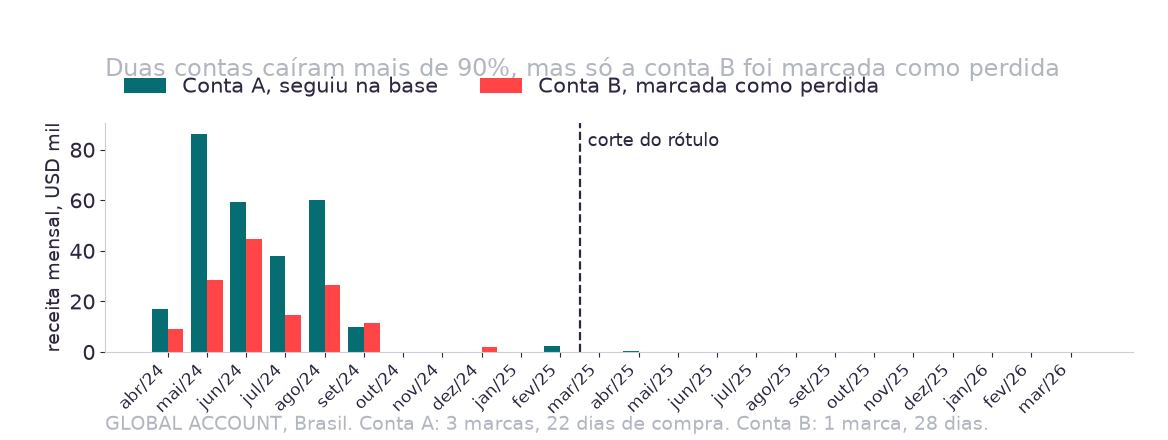
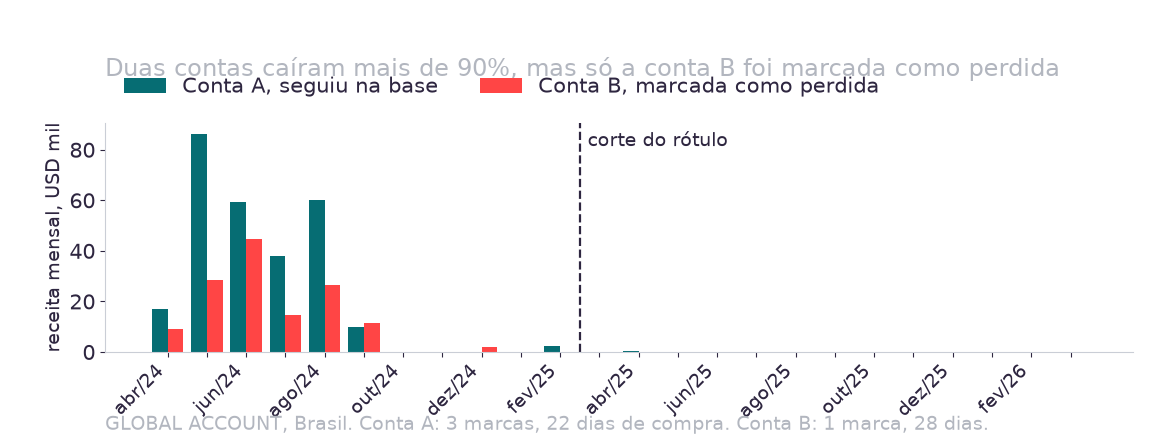
fix(aula04): fonte mínima de 14px nas figuras e legendas lidas do módulo
Claude-Session: https://claude.ai/code/session_01E3SCZ5icgJQf9CXwP2zvmh

Changed region(s): [[0.0925, 0.8273, 0.9247, 0.9455], [0.524, 0.2955, 0.6164, 0.3545]]

diff --git a/tools/gerar_figuras_aula04.py b/tools/gerar_figuras_aula04.py
@@ -134,13 +134,14 @@ def prevalencia_elegiveis() -> Path:
     _barras_com_ic(ax, nomes, t.prevalencia.to_numpy(), t.ic_inferior.to_numpy(),
                    t.ic_superior.to_numpy(), CORAL, xlim=0.8)
     p = an.populacoes()["elegiveis"]
+    n_estrategicas = int(t.loc["STRATEGIC ACCOUNT", "contas"])
     ax.axvline(p["prevalencia"], color=ROXO, linestyle="--", linewidth=1.6)
     ax.text(p["prevalencia"] + 0.01, -0.75, f"carteira elegível {_pct(p['prevalencia'])}",
-            fontsize=13, color=ROXO)
-    ax.set_title("Prevalência de churn por segmento, nas 3.748 contas elegíveis",
+            fontsize=14, color=ROXO)
+    ax.set_title(f"Prevalência de churn por segmento, nas {_fmt(p['contas'], 0)} contas elegíveis",
                  fontsize=17, color=CINZA_ESCURO, loc="left", pad=30)
     ax.text(0.0, -0.26, f"IC de 95% (Wilson). Qui-quadrado {_fmt(qui2)}, {gl} graus de liberdade. "
-            "Estratégicas: 71 contas.",
+            f"Estratégicas: {_fmt(n_estrategicas, 0)} contas.",
             transform=ax.transAxes, fontsize=14, color=CINZA_ESCURO)
     return salvar(fig, "aula04-prevalencia-elegiveis.png")
 
@@ -181,11 +182,16 @@ def marcas_por_dias() -> Path:
 # Real 3: o par da PBL, série mensal lado a lado
 # ---------------------------------------------------------------------------
 
+def _plural(n: int, singular: str, plural: str) -> str:
+    return singular if n == 1 else plural
+
+
 def par_pbl() -> Path:
     p = an.par_da_pbl()
     s = p["series"] / 1000
     meses = list(s.index)
     rotulos = [f"{MESES_CURTOS[m[5:]]}/{m[2:4]}" for m in meses]
+    rotulos_mostrados = [r if i % 2 == 0 else "" for i, r in enumerate(rotulos)]
     fig = _figura(440)
     ax = fig.add_axes([0.09, 0.2, 0.88, 0.52])
     _estilo_eixo(ax)
@@ -194,14 +200,18 @@ def par_pbl() -> Path:
     ax.bar(x + 0.2, s.conta_b, width=0.4, color=CORAL, label="Conta B, marcada como perdida")
     corte = meses.index("2025-02")
     ax.axvline(corte + 0.5, color=ROXO, linestyle="--", linewidth=1.6)
-    ax.text(corte + 0.7, ax.get_ylim()[1] * 0.9, "corte do rótulo", fontsize=13, color=ROXO)
-    ax.set_xticks(x); ax.set_xticklabels(rotulos, fontsize=12, rotation=45, ha="right")
+    ax.text(corte + 0.7, ax.get_ylim()[1] * 0.9, "corte do rótulo", fontsize=14, color=ROXO)
+    ax.set_xticks(x); ax.set_xticklabels(rotulos_mostrados, fontsize=14, rotation=45, ha="right")
     ax.set_ylabel("receita mensal, USD mil", fontsize=14)
     ax.legend(fontsize=15, frameon=False, loc="lower left", bbox_to_anchor=(0, 1.03), ncol=2)
     ax.set_title("Duas contas caíram mais de 90%, mas só a conta B foi marcada como perdida",
                  fontsize=17, color=CINZA_ESCURO, loc="left", pad=34)
-    ax.text(0.0, -0.34, "GLOBAL ACCOUNT, Brasil. Conta A: 3 marcas, 22 dias de compra. "
-            "Conta B: 1 marca, 28 dias.",
+    a, b = p["conta_a"], p["conta_b"]
+    marcas_a, dias_a = int(a["marcas"]), int(a["dias_de_compra"])
+    marcas_b, dias_b = int(b["marcas"]), int(b["dias_de_compra"])
+    ax.text(0.0, -0.34, f"GLOBAL ACCOUNT, Brasil. Conta A: {marcas_a} "
+            f"{_plural(marcas_a, 'marca', 'marcas')}, {dias_a} dias de compra. "
+            f"Conta B: {marcas_b} {_plural(marcas_b, 'marca', 'marcas')}, {dias_b} dias.",
             transform=ax.transAxes, fontsize=14, color=CINZA_ESCURO)
     return salvar(fig, "aula04-par-pbl.png")
 
@@ -221,13 +231,17 @@ def fila_por_segmento() -> Path:
     ax.barh(y, f.to_numpy(), height=0.55, color=cores)
     for yi, v in enumerate(f):
         ax.text(v + 8, yi, _fmt(v, 0), fontsize=15, color=ROXO, va="center", weight="bold")
+    n_acima = int((f > an.CAPACIDADE_OPERACIONAL).sum())
+    n_total = len(f)
     ax.axvline(an.CAPACIDADE_OPERACIONAL, color=ROXO, linestyle="--", linewidth=1.8)
-    ax.text(an.CAPACIDADE_OPERACIONAL + 8, len(nomes) - 0.4, "capacidade: 138 planos por trimestre",
-            fontsize=13, color=ROXO)
+    ax.text(an.CAPACIDADE_OPERACIONAL + 8, len(nomes) - 0.4,
+            f"capacidade: {an.CAPACIDADE_OPERACIONAL} planos por trimestre",
+            fontsize=14, color=ROXO)
     ax.set_yticks(y); ax.set_yticklabels(nomes, fontsize=16); ax.invert_yaxis()
     ax.set_xlim(0, 800)
     ax.set_xlabel("contas marcadas como perdidas, entre as elegíveis", fontsize=14)
-    ax.set_title("Cinco dos seis segmentos ultrapassam sozinhos a capacidade de 138 planos",
+    ax.set_title(f"{n_acima} dos {n_total} segmentos ultrapassam sozinhos a capacidade de "
+                 f"{an.CAPACIDADE_OPERACIONAL} planos",
                  fontsize=17, color=CINZA_ESCURO, loc="left", pad=14)
     return salvar(fig, "aula04-fila-por-segmento.png")
 
